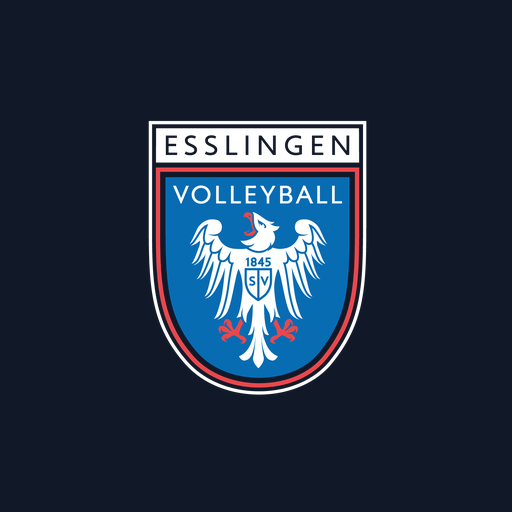
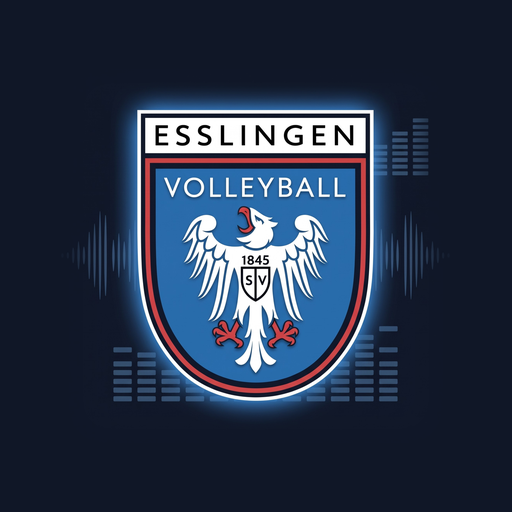
Neues App-Symbol (v2.3)

Changed region(s): [[0.1562, 0.1562, 0.8438, 0.8125]]

diff --git a/version.js b/version.js
@@ -2,11 +2,16 @@
 // MAJOR.MINOR: MAJOR bei grossen Aenderungen/neuen Features, MINOR bei kleineren Anpassungen.
 // Bei jeder Aenderung: APP_VERSION/APP_BUILD hochzaehlen UND oben in APP_CHANGELOG einen Eintrag ergaenzen.
 // -> neuer Cache, und das Pult zeigt auf dem Geraet, welche Version mit welchen Aenderungen laeuft.
-const APP_VERSION = "2.2";
+const APP_VERSION = "2.3";
 const APP_BUILD = "2026-10-05";
 
 // Neueste Version zuerst.
 const APP_CHANGELOG = [
+  {
+    version: "2.3",
+    date: "2026-10-05",
+    changes: ["Neues App-Symbol für den Home-Bildschirm (Wappen mit Soundwave-Hintergrund)."],
+  },
   {
     version: "2.2",
     date: "2026-10-05",
